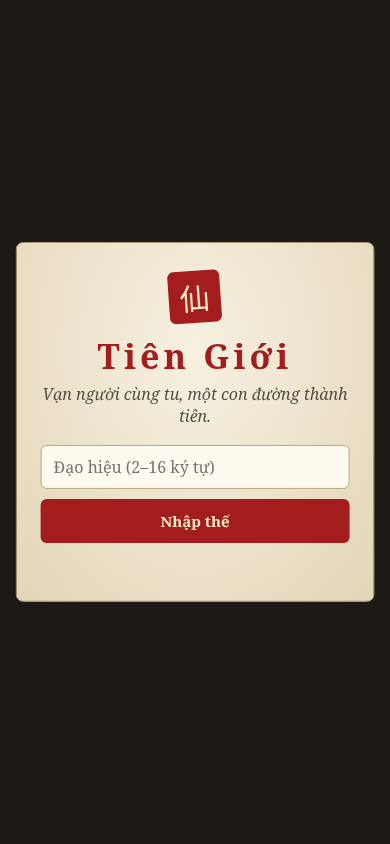
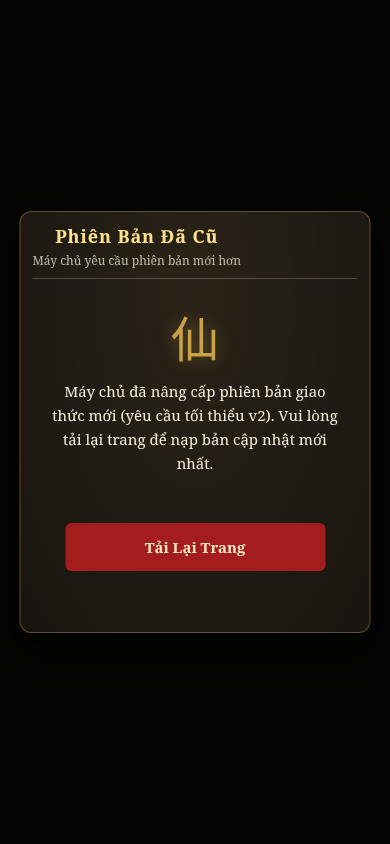
fix(client): đưa outdated-modal ra ngoài #ui, bọc hook DEV và tối ưu hiển thị mobile

diff --git a/client/index.html b/client/index.html
@@ -633,35 +633,6 @@
         </div>
       </section>
 
-      <!-- Màn hình Client quá cũ / Có bản cập nhật mới (M4 2.5) -->
-      <section
-        id="outdated-modal"
-        class="panel modal-box outdated-modal"
-        hidden
-        aria-label="Cập nhật phiên bản mới"
-        role="alertdialog"
-        aria-modal="true"
-      >
-        <header class="inv-head">
-          <div>
-            <h2>Phiên Bản Đã Cũ</h2>
-            <small id="outdated-subtitle">Máy chủ yêu cầu phiên bản mới hơn</small>
-          </div>
-        </header>
-        <div class="outdated-body">
-          <div class="outdated-icon">仙</div>
-          <p id="outdated-msg" class="outdated-desc">
-            Máy chủ đã nâng cấp phiên bản giao thức mới. Vui lòng tải lại trang để nạp bản cập nhật
-            mới nhất.
-          </p>
-        </div>
-        <footer class="outdated-footer">
-          <button type="button" id="btn-reload-outdated" class="auth-btn-primary">
-            Tải Lại Trang
-          </button>
-        </footer>
-      </section>
-
       <section id="dialog-modal" class="panel" hidden aria-label="Hộp thoại NPC">
         <header class="dlg-head">
           <div>
@@ -1193,6 +1164,35 @@
         </div>
       </div>
     </div>
+
+    <!-- Màn hình Client quá cũ / Có bản cập nhật mới (M4 2.5) -->
+    <section
+      id="outdated-modal"
+      class="panel modal-box outdated-modal"
+      hidden
+      aria-label="Cập nhật phiên bản mới"
+      role="alertdialog"
+      aria-modal="true"
+    >
+      <header class="inv-head">
+        <div>
+          <h2>Phiên Bản Đã Cũ</h2>
+          <small id="outdated-subtitle">Máy chủ yêu cầu phiên bản mới hơn</small>
+        </div>
+      </header>
+      <div class="outdated-body">
+        <div class="outdated-icon">仙</div>
+        <p id="outdated-msg" class="outdated-desc">
+          Máy chủ đã nâng cấp phiên bản giao thức mới. Vui lòng tải lại trang để nạp bản cập nhật
+          mới nhất.
+        </p>
+      </div>
+      <footer class="outdated-footer">
+        <button type="button" id="btn-reload-outdated" class="auth-btn-primary">
+          Tải Lại Trang
+        </button>
+      </footer>
+    </section>
 
     <script type="module" src="/src/main.ts"></script>
   </body>

diff --git a/client/src/style.css b/client/src/style.css
@@ -55,11 +55,14 @@ button {
   left: 50%;
   transform: translate(-50%, -50%);
   width: min(92vw, 380px);
+  max-height: min(94dvh, 620px);
+  overflow-y: auto;
   padding: 28px 24px 20px;
   text-align: center;
   background: radial-gradient(ellipse at 50% 30%, #f7f1e1, #e3d6b8);
   color: var(--ink);
   border: 1px solid #b9a77e;
+  box-shadow: 0 16px 40px rgba(0, 0, 0, 0.7);
 }
 #login .seal {
   display: inline-grid;
@@ -4780,9 +4783,38 @@ body.in-limbo #chat-log {
 
 /* Modal Client quá cũ / Cập nhật phiên bản (M4 2.5) */
 .outdated-modal {
+  position: fixed;
+  top: 50%;
+  left: 50%;
+  transform: translate(-50%, -50%);
+  width: min(92vw, 440px);
   max-width: 440px;
+  max-height: 85dvh;
   text-align: center;
   z-index: 10000;
+  border-radius: 12px;
+  border: 1px solid rgba(201, 162, 74, 0.4);
+  background: radial-gradient(ellipse at 50% 20%, #2a2318, #18140f);
+  box-shadow:
+    0 0 0 100vmax rgba(0, 0, 0, 0.75),
+    0 16px 40px rgba(0, 0, 0, 0.9);
+  justify-content: flex-start;
+}
+
+@media (pointer: coarse), (max-width: 640px) {
+  .outdated-modal {
+    position: fixed;
+    top: 50%;
+    left: 50%;
+    transform: translate(-50%, -50%);
+    width: min(90vw, 360px);
+    height: auto;
+    border-radius: 12px;
+    border: 1px solid rgba(201, 162, 74, 0.4);
+    box-shadow:
+      0 0 0 100vmax rgba(0, 0, 0, 0.8),
+      0 16px 40px rgba(0, 0, 0, 0.95);
+  }
 }
 
 .outdated-body {

diff --git a/client/src/main.ts b/client/src/main.ts
@@ -221,7 +221,10 @@ initAuthUi({
 });
 
 // Giả lập hiển thị modal phiên bản quá cũ khi có cờ ?outdated=N (phục vụ kiểm thử và nghiệm thu giao diện, M4 2.5)
-if (typeof window !== "undefined") {
+if (
+  typeof window !== "undefined" &&
+  (import.meta.env.DEV || new URLSearchParams(location.search).has("debug"))
+) {
   const outdatedParam = new URLSearchParams(location.search).get("outdated");
   if (outdatedParam !== null) {
     const minV = Number(outdatedParam) || 2;

diff --git a/client/src/ui.ts b/client/src/ui.ts
@@ -3891,9 +3891,9 @@ export const ui = {
     }
     modal.hidden = false;
 
-    // Đóng auth screen nếu đang mở để modal hiển thị rõ ràng
-    const authOverlay = $("auth-overlay");
-    if (authOverlay) authOverlay.hidden = true;
+    // Ẩn màn hình đăng nhập nếu đang mở để modal hiển thị trực diện
+    const login = $("login");
+    if (login) login.hidden = true;
 
     const btn = $("btn-reload-outdated");
     if (btn) {
